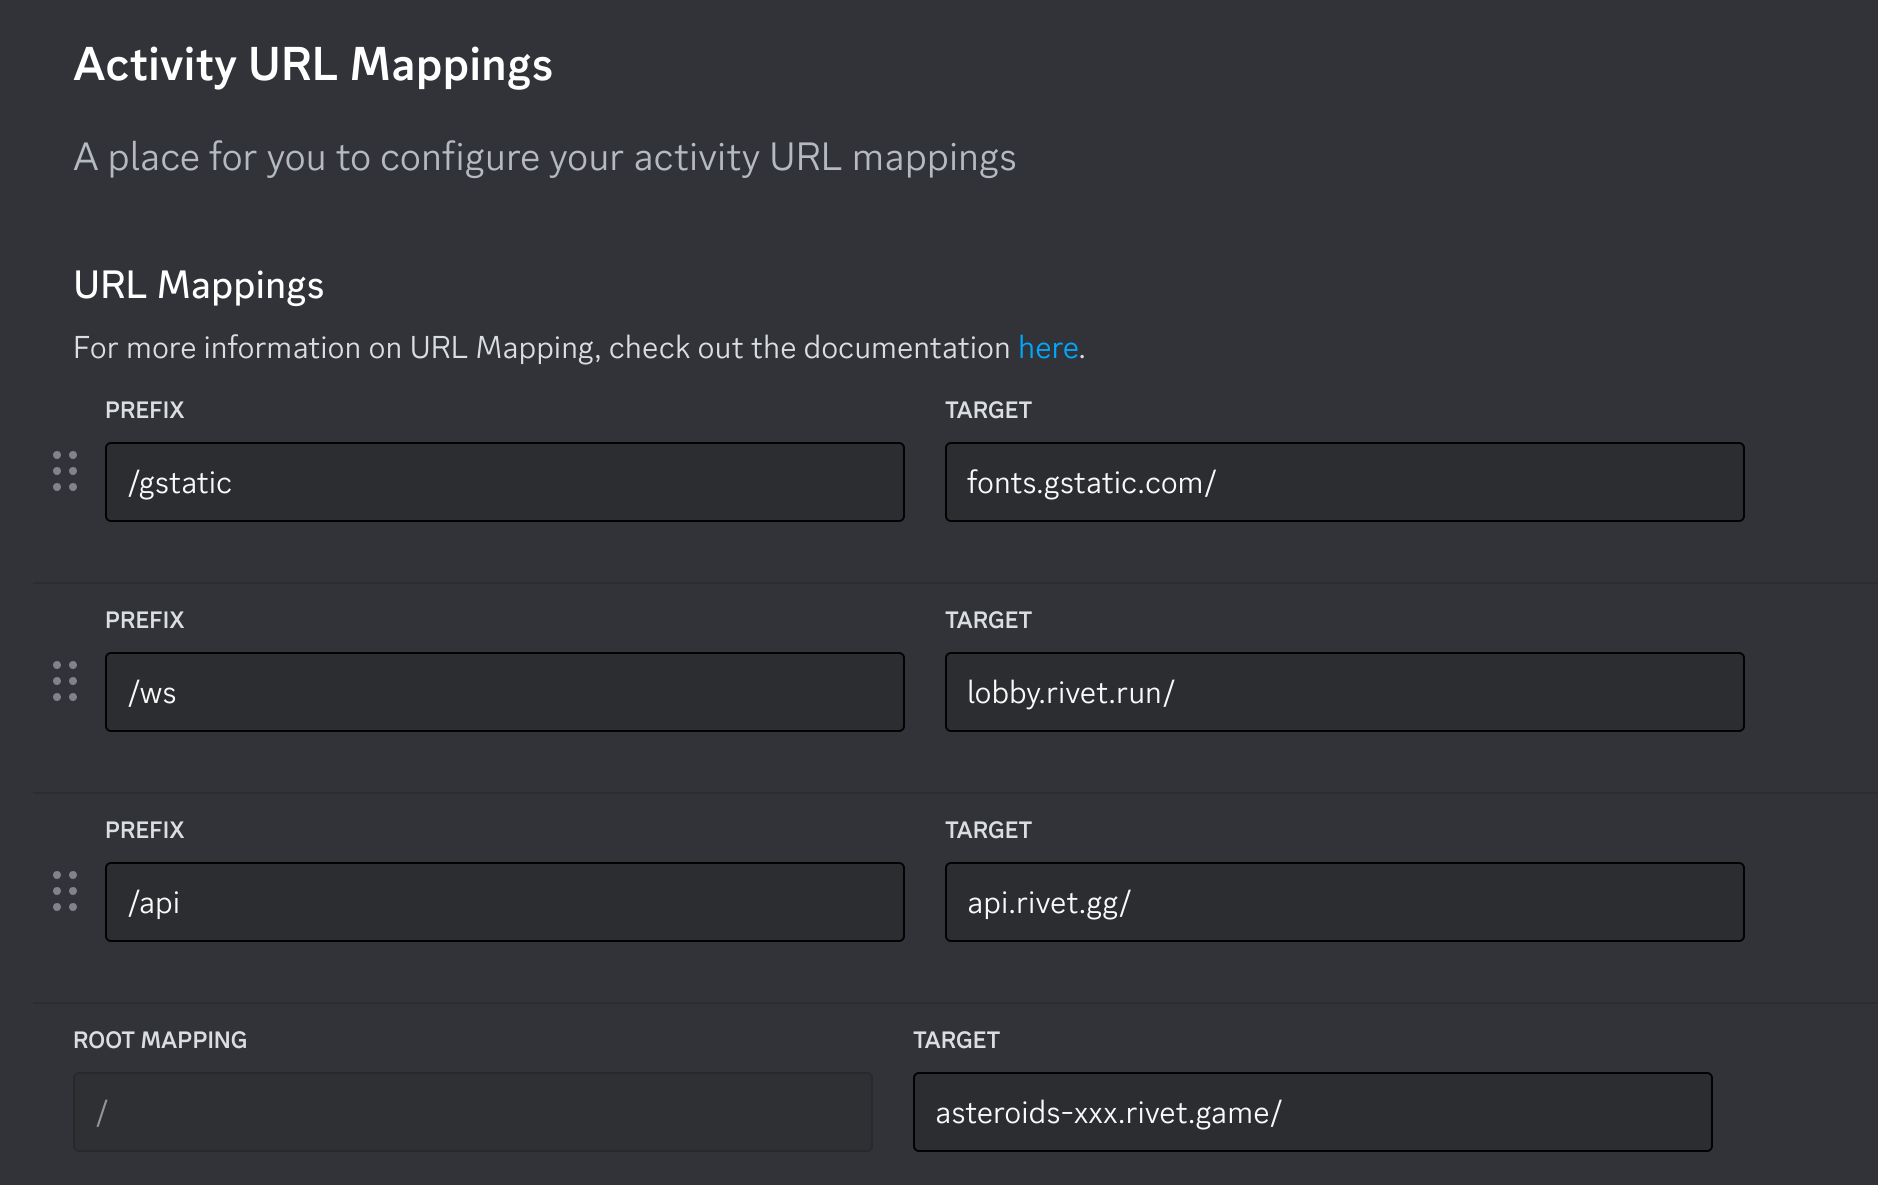
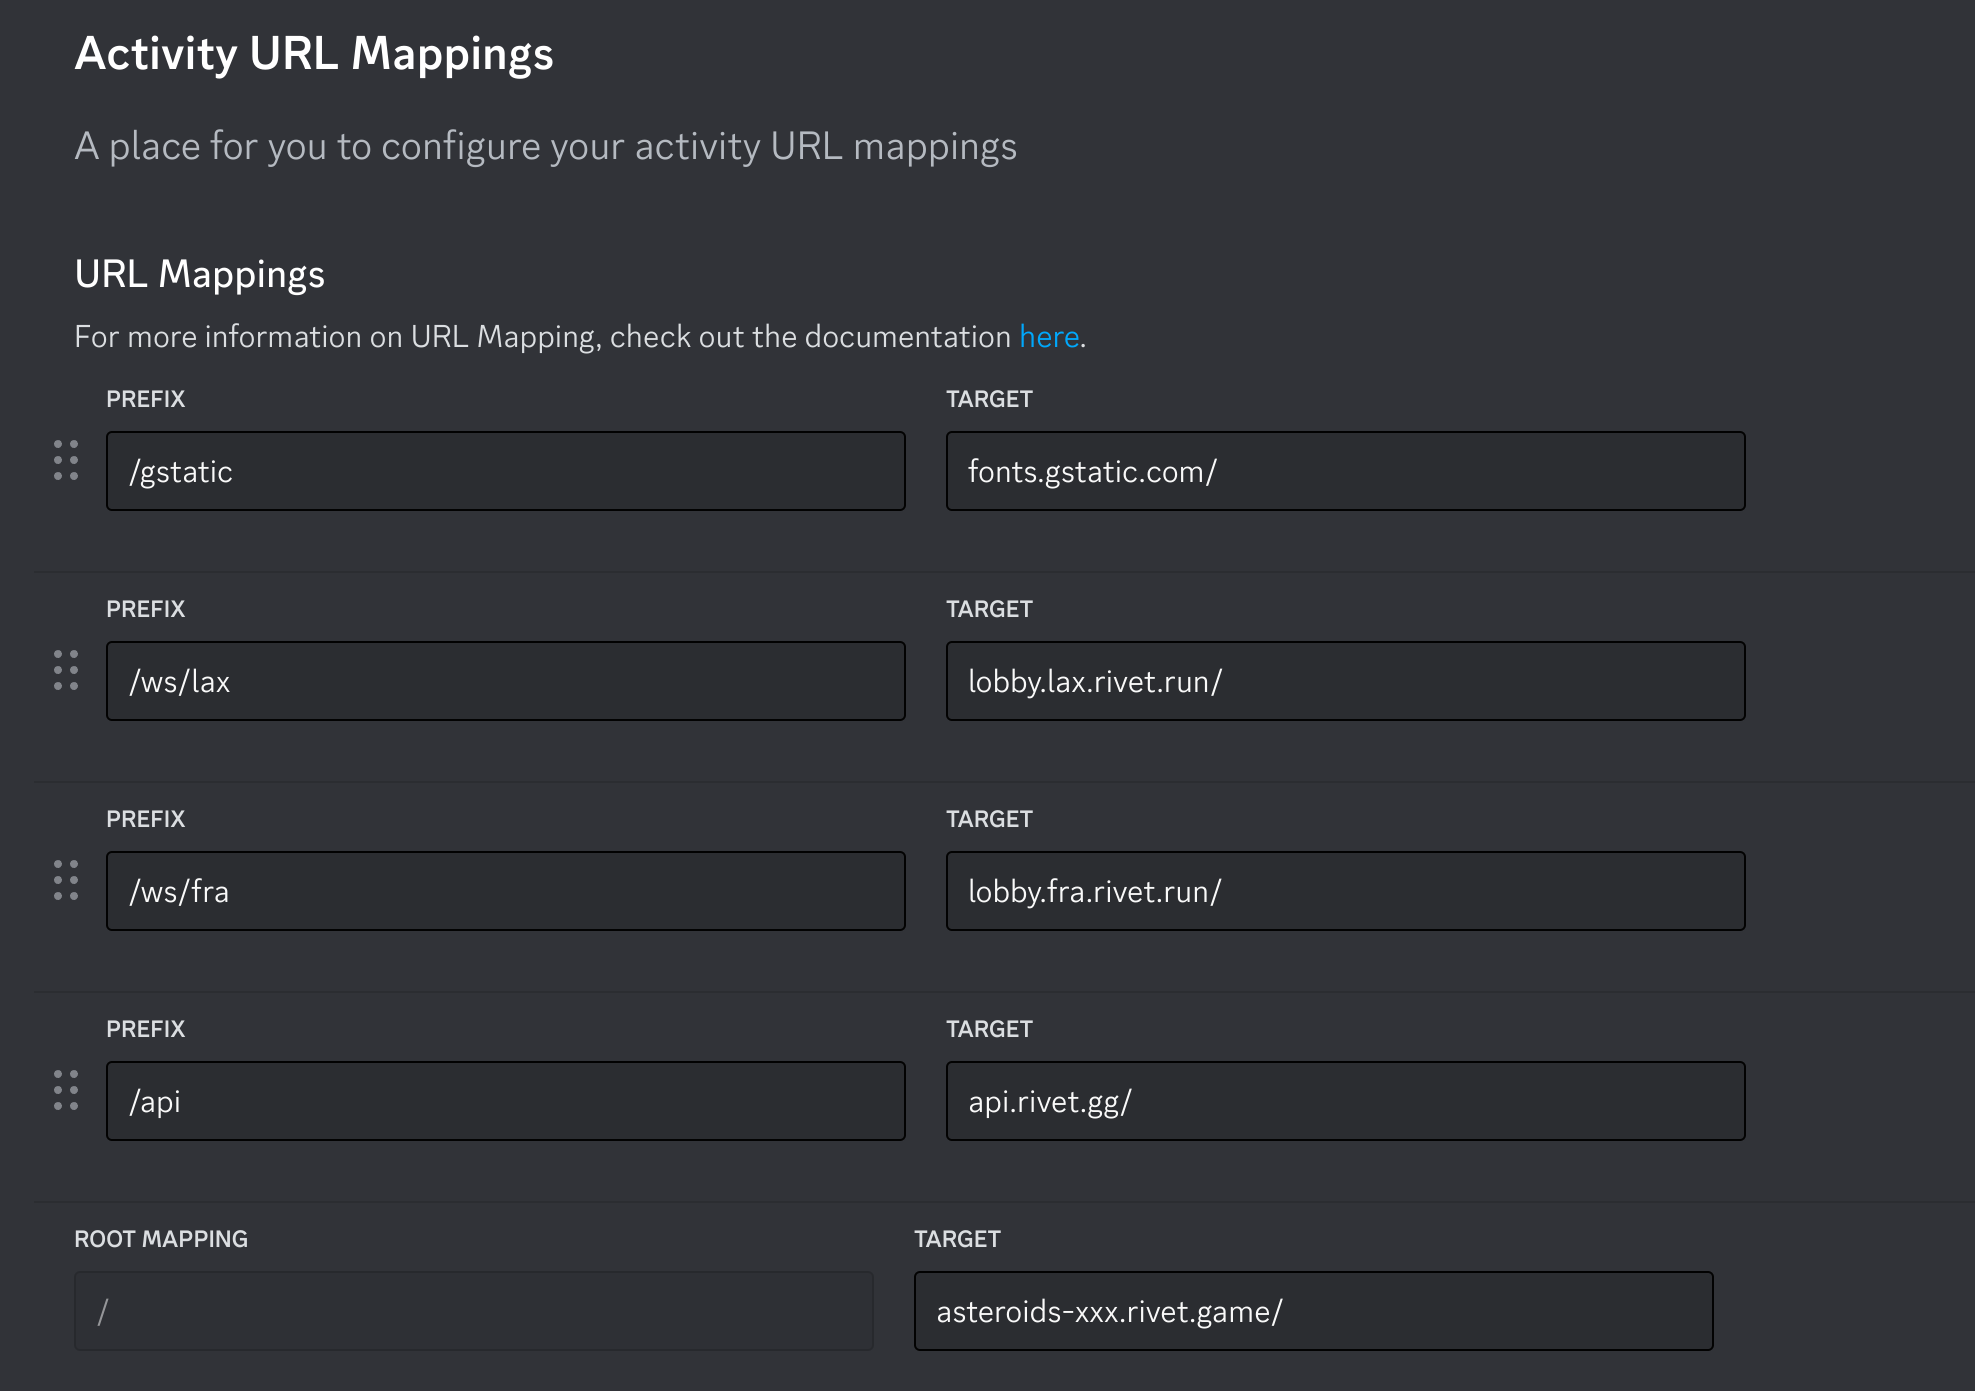
Update region selection

diff --git a/examples/asteroids-rivet/README.md b/examples/asteroids-rivet/README.md
@@ -54,7 +54,12 @@ Using the URL of the successfully deployed game, you can update your activity's 
 
 ![Screenshot of the configured URL mappings](/assets/rivet-url-mappings.png)
 
-**Important:** The other URL bindings are required for API requests to Rivet.
+-   **Important:** The other URL bindings are required for API requests to Rivet.
+-   More regions can be added by updating the `rivet.yaml` file and adding a new URL mapping in the config.
+    Note that this will not be required once
+    [this support request](https://discord.com/channels/613425648685547541/1219417813438173184) is resolved;
+    you will only need one URL mapping for lobby connections:
+    `/ws/{region}/{lobby} -> {lobby}.lobby.{region}.rivet.run`
 
 ### Playing Asteroids
 
